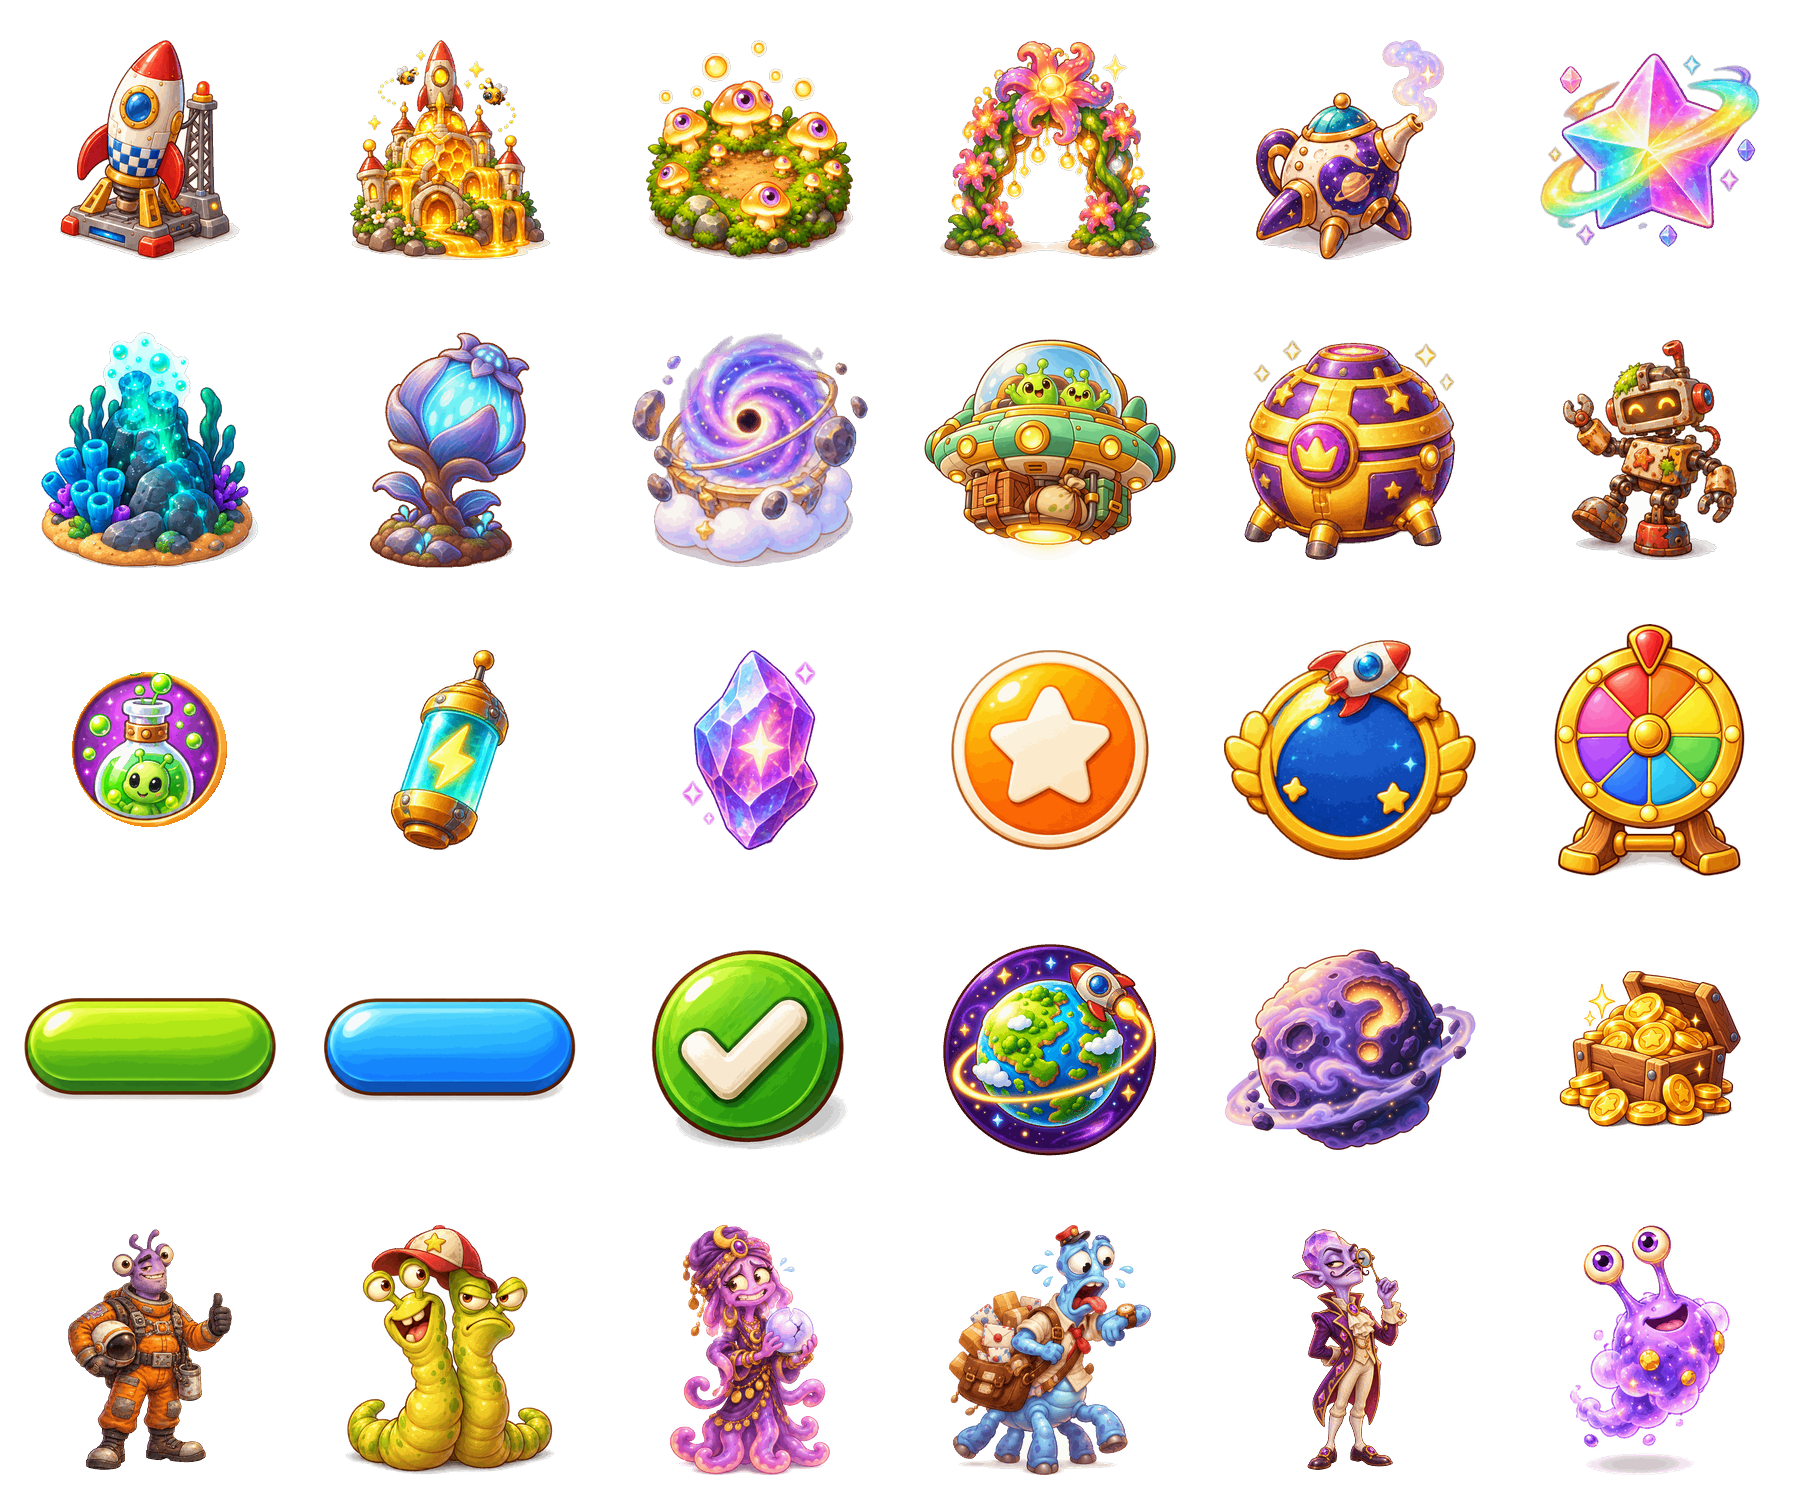
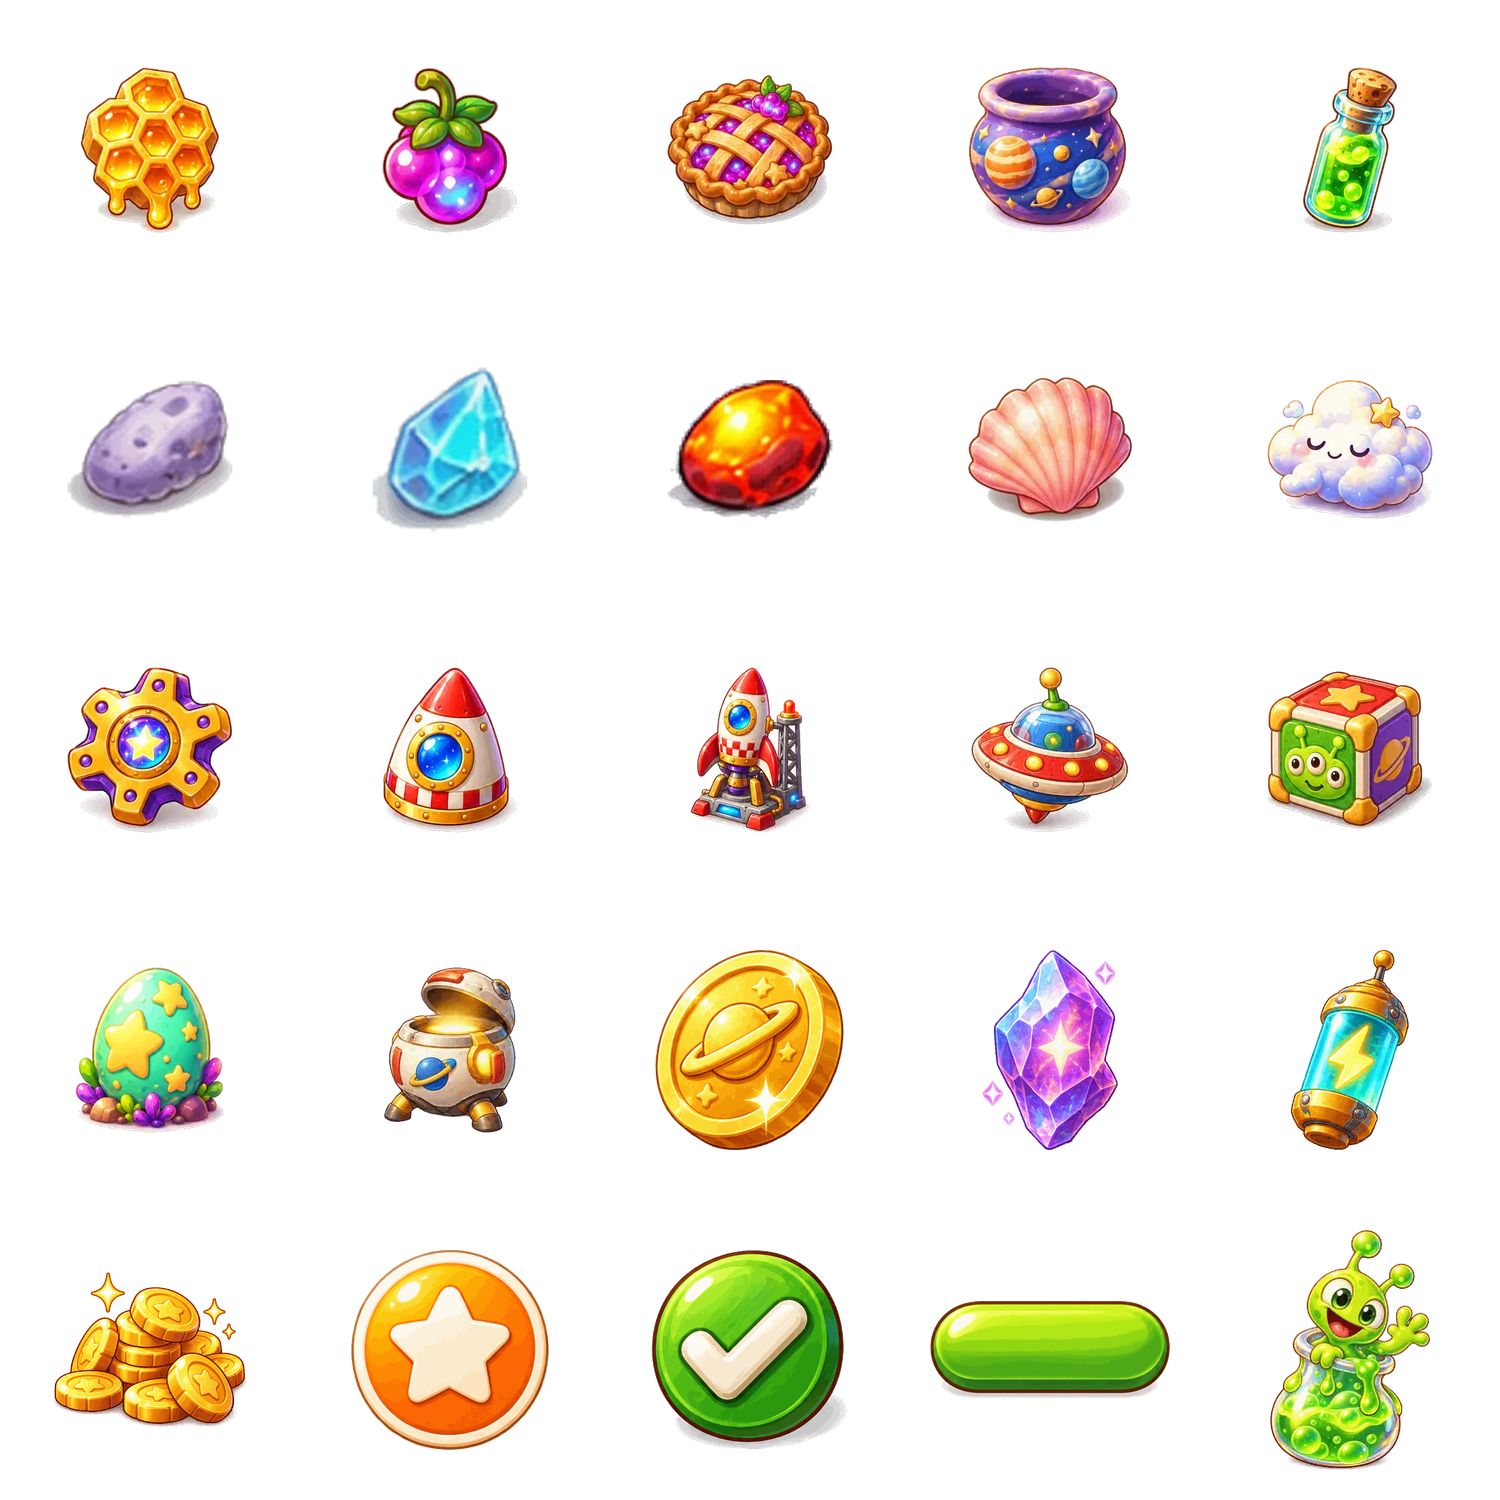
Simpler style reference; SETUP and item prompts toned back to Travel Town style (no character rules)
Claude-Session: https://claude.ai/code/session_01GWJKuVdZyG26x36Sx2swLw

diff --git a/art/guides/ART-PROMPTS.md b/art/guides/ART-PROMPTS.md
@@ -8,16 +8,9 @@ Done and in the game: brand (logo, icon, splash, store graphic), space UI kit, t
 
 ## SETUP (send once, attach STYLE-REFERENCE.png)
 
-We're making art for my mobile game "Galaxy Adventure" (a Travel Town–style merge game on alien planets). Match the colours of the attached reference, but draw everything MUCH SIMPLER, like clean mobile-game inventory icons:
-- bold, chunky, toy-like shapes with a big, clear silhouette
-- few details: at most 2–3 small accents per object, no tiny clutter, no busy textures, no sparkles everywhere
-- smooth glossy surfaces with soft shading and one soft white highlight from the upper left
-- a thin, darker outline in the object's own colour, and a small soft shadow underneath
-- three-quarter view from about 30° above
-- everything is extraterrestrial (alien plants, planets, crystals, rockets, saucers, antennae, extra eyes), in a palette of purple, teal, magenta, lime and gold
-- characters are funny, weird-looking ADULT cartoon aliens: never babies, never scary, never Earth animals
+We're making art for my mobile merge game "Galaxy Adventure" (Travel Town style, set on alien planets). Use the attached reference for the style: the same soft, glossy, friendly look and colours, but keep objects clean and simple like the items in Travel Town. One clear, recognisable object, a soft outline, gentle shading and one highlight. Not too many small details.
 
-Every image: ONE object (or one sheet when I say grid), centred, on a plain pure-white or transparent background, square 1024×1024, no text, no frame. It must still read clearly at 48 px. On sheets the cells are equal and the objects don't touch.
+Every image: one object (or one sheet when I say grid), centred, on a plain white or transparent background, square 1024×1024, no text, no frame. On sheets the cells are equal and the objects don't touch.
 
 Answer each of my next messages with exactly one image.
 

diff --git a/art/guides/ART-PROMPTS-ITEMS.md b/art/guides/ART-PROMPTS-ITEMS.md
@@ -4,7 +4,7 @@ Every item gets redrawn simpler, chain by chain, in the order players meet them.
 
 **Add this paragraph to EVERY sheet:**
 
-> ICON STYLE, VERY SIMPLE: each object is one big chunky shape you can name in one word, with a bold dark outline, 2–3 main colours and one soft highlight. No small parts, no sparkles, no stars or planets painted on it, no scenery and no ground or grass under it. The object fills 80% of its cell. It must be recognisable at 40 px, like a mobile-game inventory icon. Each step must look clearly bigger or richer than the step before.
+> Travel Town–style items: clean, friendly and easy to recognise at a glance, with soft glossy shading and a soft outline. Keep the details light: no clutter, no sparkles everywhere, and no ground or grass under the object. Each object fills about 80% of its cell, and each step looks clearly bigger or richer than the step before.
 
 Save as `sheet_<chain>` and drop it in `chatgpt art`. 89 sheets in total.
 
